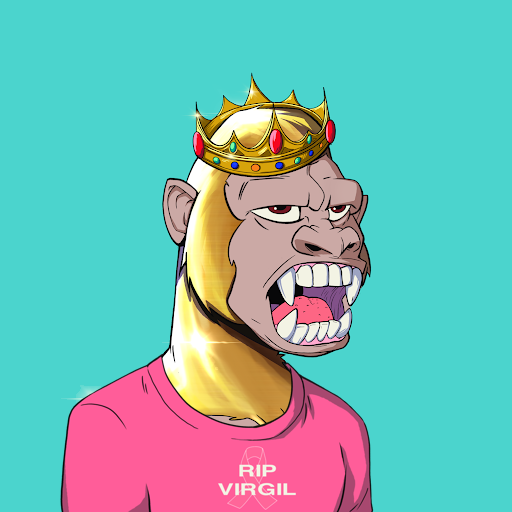
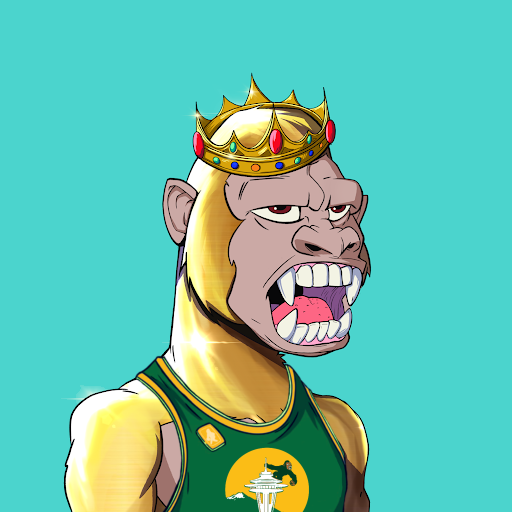
chore: jersey and drip

Changed region(s): [[0.0938, 0.6875, 0.75, 1.0]]

diff --git a/bot/main.py b/bot/main.py
@@ -71,15 +71,9 @@ def register_commands(bot):
         brief="id (number): Token ID of the Kong to display, team (string): Name of the team to use the jersey from",
     )
     async def jersey(ctx, *args):
-        id_ = args[0]
-        team_jersey = args[1]
-
-        kong = kong_util.draw_naked_kong(int(id_))
-        jersey_kong = kong_util.apply_drip(kong, team_jersey, True)
-        jersey_kong.save(os.path.join(consts.TMP_PATH, "testkong.png"))
-
-        image = discord.File(os.path.join(consts.TMP_PATH, "testkong.png"))
-        await ctx.channel.send(file=image)
+        kong = kong_util.draw_naked_kong(int(args[0]))
+        jersey_kong = kong_util.apply_drip(kong, args[1], True)
+        await ctx.channel.send(file=jersey_kong)
 
     # == !Drip =============================================================================
     @bot.command(
@@ -87,15 +81,9 @@ def register_commands(bot):
         brief="id (number): Token ID of the Kong to display, team (string): Name of the drip to apply",
     )
     async def drip(ctx, *args):
-        id_ = args[0]
-        drip_type = args[1]
-
-        kong = kong_util.draw_naked_kong(int(id_))
-        dripped_kong = kong_util.apply_drip(kong, drip_type, False)
-        dripped_kong.save(os.path.join(consts.TMP_PATH, "testkong.png"))
-
-        image = discord.File(os.path.join(consts.TMP_PATH, "testkong.png"))
-        await ctx.channel.send(file=image)
+        kong = kong_util.draw_naked_kong(int(args[0]))
+        dripped_kong = kong_util.apply_drip(kong, args[1], False)
+        await ctx.channel.send(file=dripped_kong)
 
     # TODO:
     # == !Floor ============================================================================
